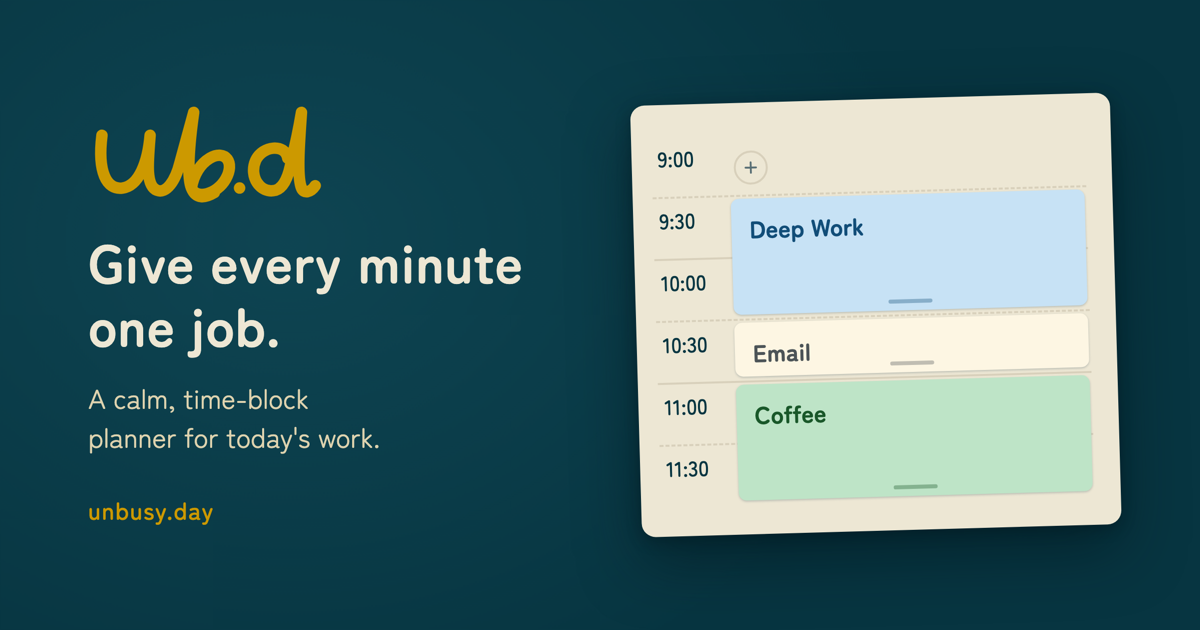
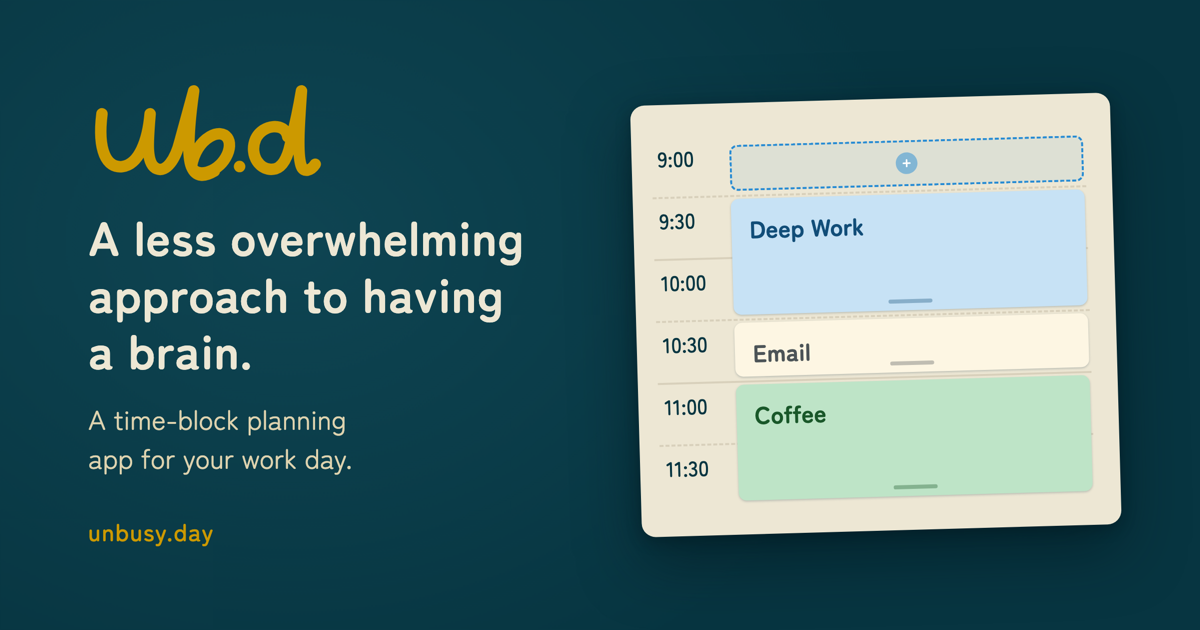
refine og/readme cards: new tagline, real add-slot design, full-width hero
Tagline is now 'A less overwhelming approach to having a brain.' with
'A time-block planning app for your work day.' beneath; the 9:00 slot
shows the real .slot-add hover state (dashed accent rect + circle-plus)
instead of an invented ring; the README hero renders full-width.

diff --git a/docs/readme-hero.html b/docs/readme-hero.html
@@ -38,6 +38,7 @@
     --nav-ink: hsl(46, 42%, 88%);
     --nav-icon: hsl(45, 100%, 40%);
     --gutter-ink: hsl(192, 81%, 14%);
+    --accent: hsl(205, 69%, 49%);
     --type-deep: hsl(205, 70%, 87%);
     --type-deep-ink: hsl(205, 75%, 27%);
     --type-shallow: var(--bg);
@@ -65,7 +66,7 @@
     color: var(--nav-ink);
   }
   .tagline {
-    font-size: 60px;
+    font-size: 52px;
     font-weight: 700;
     line-height: 1.18;
     letter-spacing: 0.01em;
@@ -116,15 +117,17 @@
     color: var(--gutter-ink);
     padding-left: 6px;
   }
+  /* free-slot add target frozen in its hover state, like .slot-add / .gc-add */
   .slot-add {
-    justify-self: start;
-    align-self: center;
-    width: 34px; height: 34px;
-    border-radius: 50%;
-    border: 2px solid var(--rail-border);
-    color: var(--ink-muted);
+    grid-column: 2;
+    align-self: stretch;
+    justify-self: stretch;
     display: flex; align-items: center; justify-content: center;
-    margin-left: 4px;
+    margin: 4px 2px 4px 0;
+    border: 2px dashed var(--accent);
+    border-radius: 8px;
+    background: color-mix(in srgb, var(--accent) 8%, transparent);
+    color: var(--accent);
   }
   .block {
     grid-column: 2;
@@ -152,15 +155,15 @@
 </head>
 <body>
   <div class="copy">
-    <div class="tagline">Give every minute <em>one&nbsp;job</em>.</div>
-    <div class="sub">A calm, time-block planner for today's work.</div>
+    <div class="tagline">A <em>less overwhelming</em> approach to having a&nbsp;brain.</div>
+    <div class="sub">A time-block planning app for your work day.</div>
   </div>
 
   <div class="column-wrap">
     <div class="column">
       <div class="slot first" style="grid-row:1"><span class="gutter">9:00</span>
         <span class="slot-add">
-          <svg width="18" height="18" viewBox="0 0 24 24" fill="none" stroke="currentColor" stroke-width="2.5" stroke-linecap="round"><path d="M12 5v14M5 12h14"/></svg>
+          <svg width="26" height="26" viewBox="0 0 24 24" aria-hidden="true"><path fill="currentColor" d="M12 22c5.523 0 10-4.477 10-10S17.523 2 12 2S2 6.477 2 12s4.477 10 10 10" opacity=".5"/><path fill="#fff" d="M12 8.25a.75.75 0 0 1 .75.75v2.25H15a.75.75 0 0 1 0 1.5h-2.25V15a.75.75 0 0 1-1.5 0v-2.25H9a.75.75 0 0 1 0-1.5h2.25V9a.75.75 0 0 1 .75-.75"/></svg>
         </span>
       </div>
       <div class="slot half" style="grid-row:2"><span class="gutter">9:30</span></div>

diff --git a/docs/og-card.html b/docs/og-card.html
@@ -69,7 +69,7 @@
   }
   .wordmark { color: var(--nav-icon); margin-bottom: 20px; }
   .tagline {
-    font-size: 54px;
+    font-size: 48px;
     font-weight: 700;
     line-height: 1.18;
     letter-spacing: 0.01em;
@@ -123,15 +123,17 @@
     color: var(--gutter-ink);
     padding-left: 6px;
   }
+  /* free-slot add target frozen in its hover state, like .slot-add / .gc-add */
   .slot-add {
-    justify-self: start;
-    align-self: center;
-    width: 34px; height: 34px;
-    border-radius: 50%;
-    border: 2px solid var(--rail-border);
-    color: var(--ink-muted);
+    grid-column: 2;
+    align-self: stretch;
+    justify-self: stretch;
     display: flex; align-items: center; justify-content: center;
-    margin-left: 4px;
+    margin: 4px 2px 4px 0;
+    border: 2px dashed var(--accent);
+    border-radius: 8px;
+    background: color-mix(in srgb, var(--accent) 8%, transparent);
+    color: var(--accent);
   }
   .block {
     grid-column: 2;
@@ -166,8 +168,8 @@
         <path d="M45.5 14 C45 10.8, 40 11.2, 38.5 14.5 C37 18, 39.5 21.8, 42.8 21 C44.8 20.4, 45.8 17.5, 46.3 14.5 C47.2 11, 48 7, 48.5 4 C48 11, 47.5 18, 48.5 20.5 C49 21.8, 50.5 21.5, 51.5 20"></path>
       </svg>
     </div>
-    <div class="tagline">Give every minute one&nbsp;job.</div>
-    <div class="sub">A calm, time-block planner for today's work.</div>
+    <div class="tagline">A less overwhelming approach to having a&nbsp;brain.</div>
+    <div class="sub">A time-block planning app for your work day.</div>
     <div class="domain">unbusy.day</div>
   </div>
 
@@ -175,7 +177,7 @@
     <div class="column">
       <div class="slot first" style="grid-row:1"><span class="gutter">9:00</span>
         <span class="slot-add">
-          <svg width="18" height="18" viewBox="0 0 24 24" fill="none" stroke="currentColor" stroke-width="2.5" stroke-linecap="round"><path d="M12 5v14M5 12h14"/></svg>
+          <svg width="26" height="26" viewBox="0 0 24 24" aria-hidden="true"><path fill="currentColor" d="M12 22c5.523 0 10-4.477 10-10S17.523 2 12 2S2 6.477 2 12s4.477 10 10 10" opacity=".5"/><path fill="#fff" d="M12 8.25a.75.75 0 0 1 .75.75v2.25H15a.75.75 0 0 1 0 1.5h-2.25V15a.75.75 0 0 1-1.5 0v-2.25H9a.75.75 0 0 1 0-1.5h2.25V9a.75.75 0 0 1 .75-.75"/></svg>
         </span>
       </div>
       <div class="slot half" style="grid-row:2"><span class="gutter">9:30</span></div>

diff --git a/README.md b/README.md
@@ -10,9 +10,7 @@
 
 Have a structured day. Time-block your schedule, track some progress, no rush.
 
-<p align="center">
-  <img src=".github/readme-hero.png" width="820" alt="A tilted day column with Deep Work, Email, and Coffee blocks beside the tagline: give every minute one job.">
-</p>
+![A tilted day column with Deep Work, Email, and Coffee blocks beside the tagline: a less overwhelming approach to having a brain.](.github/readme-hero.png)
 
 ## What is this thing?
 